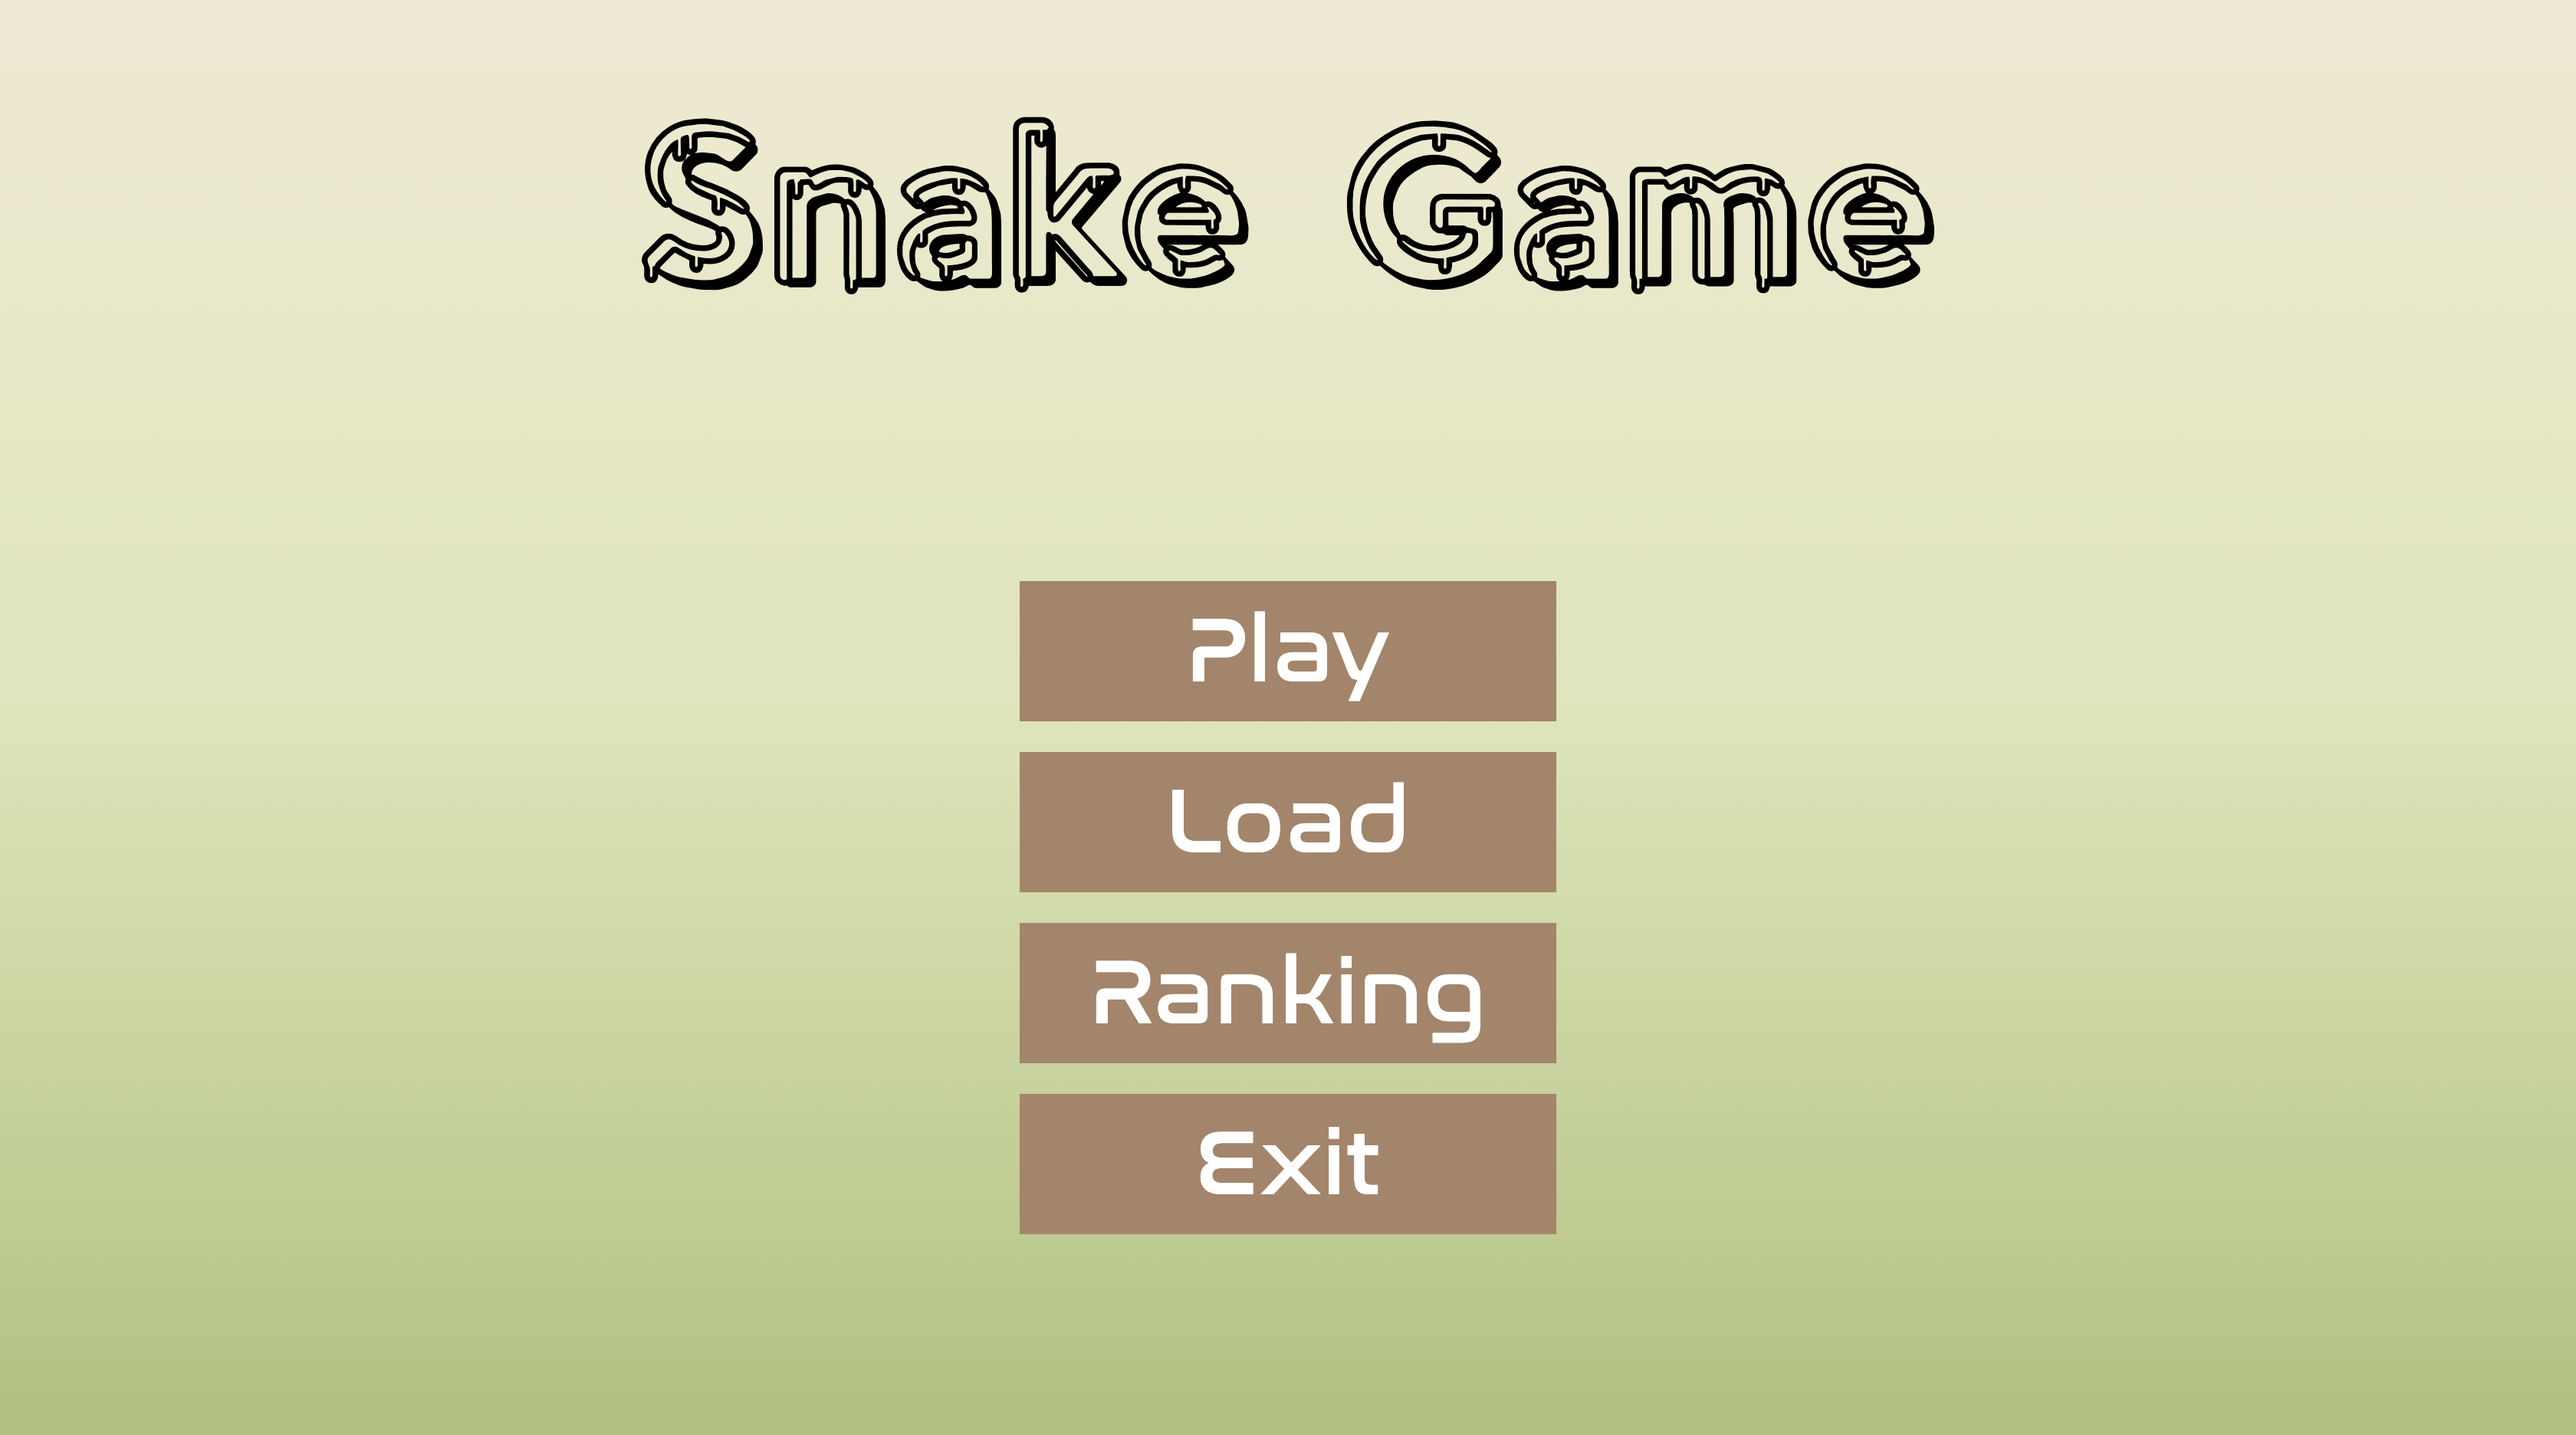
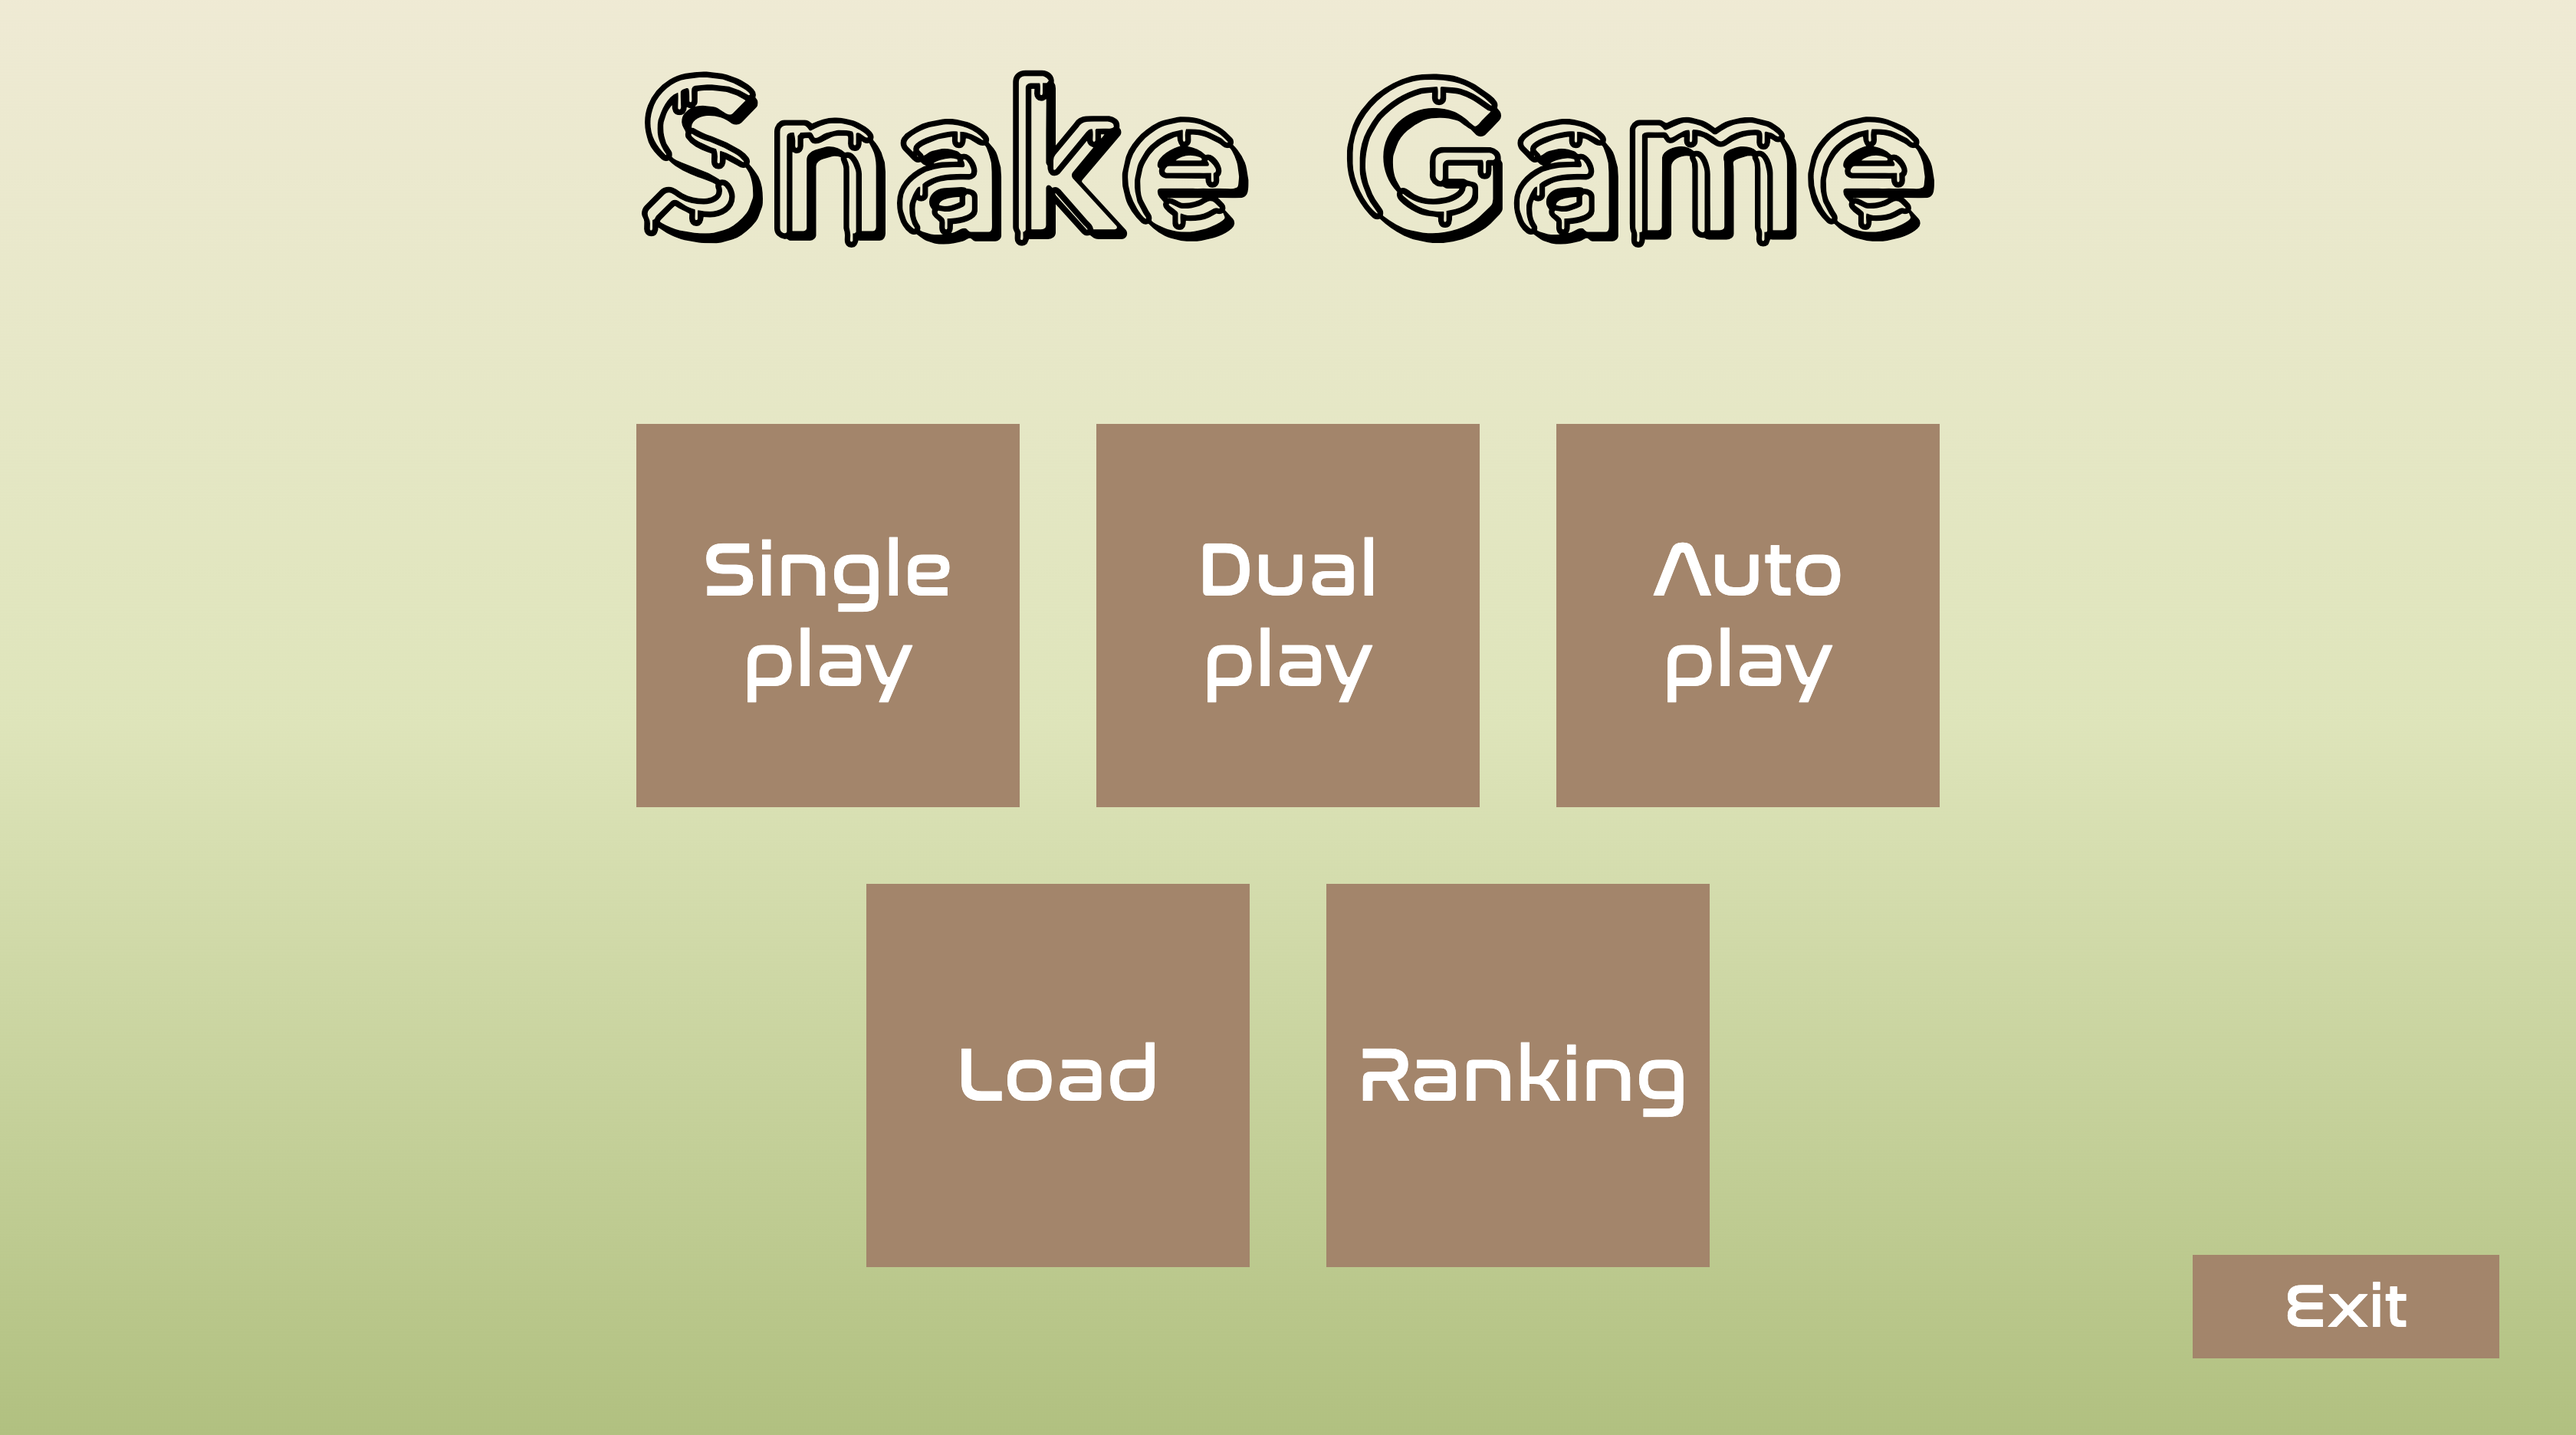
📝 Updated readme

Changed region(s): [[0.25, 0.2788, 0.75, 0.8985], [0.25, 0.031, 0.75, 0.2169], [0.8438, 0.8675, 0.9688, 0.9605]]

diff --git a/README.md b/README.md
@@ -51,6 +51,8 @@ Here is the list of features implemented in the game :
 - Classic snake game
 - Pause the game
 - Change username
+- Auto play mode
+- Dual game mode
 
 ## 🧑💻 Coding convention
 
@@ -92,5 +94,9 @@ We use parcel to build the application. For more information -> https://parceljs
 <img src="./public/game-over.png" alt="" />
 
 <img src="./public/menu.png" alt="" />
+
+<img src="./public/dual-game.png" alt="" />
+
+<img src="./public/bot.png" alt="" />
 
 <img src="./public/ranking.png" alt="" />
